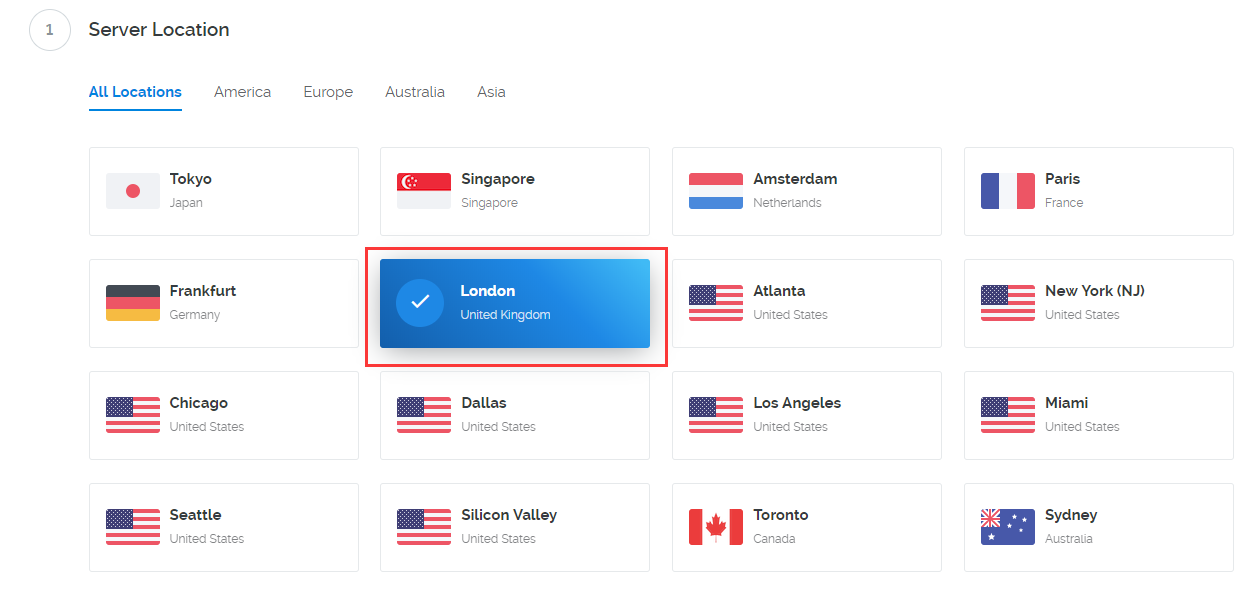
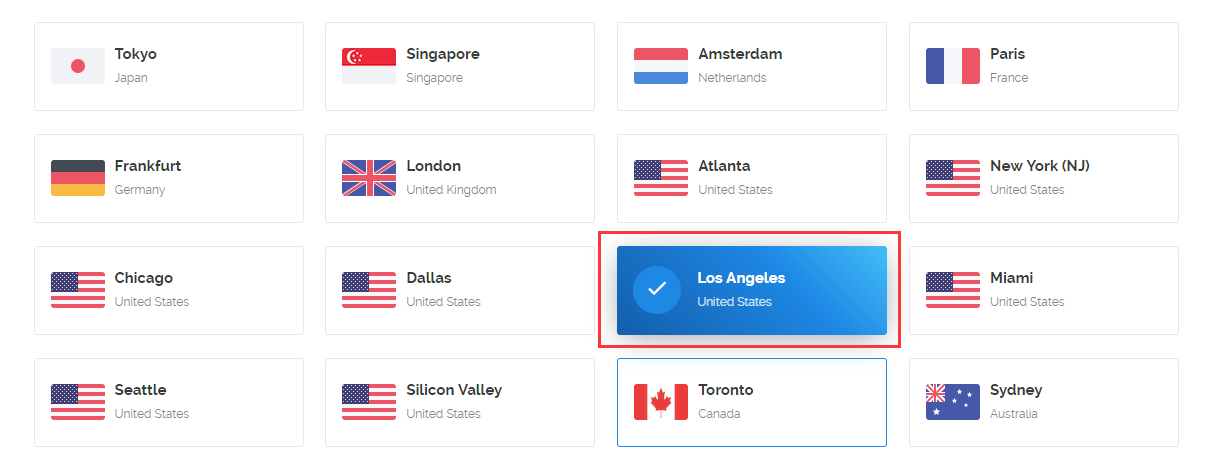
修改图片

diff --git a/super_easy_shadowsocks_tutorial.md b/super_easy_shadowsocks_tutorial.md
@@ -1,6 +1,6 @@
 # 前言
 
-  由于秋水逸冰大佬的退出，所以旧教程使用的一键安装shadowsocks脚本可能在未来的某一天也不管用了。出于这个原因，我又写了一边文章用来给大家作为备用教程，这篇文章使用的是[Google Jigsaw](https://jigsaw.google.com/)团队制作的同样也是shadowsocks的一键脚本，由于是Google制作，所以迫于某些压力退出的可能性不大，个人认为可以作为长期的备用教程。
+  由于秋水逸冰大佬的退出，所以旧教程使用的一键安装shadowsocks脚本可能在未来的某一天也不管用了。出于这个原因，我又写了一篇文章用来给大家作为备用教程，这篇文章使用的是[Google Jigsaw](https://jigsaw.google.com/)团队制作的同样也是shadowsocks的一键脚本，由于是Google制作，所以迫于某些压力退出的可能性不大，个人认为可以作为长期的备用教程。
 
 # 开始
 
@@ -22,7 +22,7 @@ Vultr推荐链接：https://www.vultr.com/?ref=7370522
 
 ![](./images/2.png)
 
-第二步：在打开的页面选择伦敦London服务器（由于日本服务器滥用导致很多IP被封了，建议电信用户可以选择伦敦），如果喜欢其他服务器也可以选择，后续操作是一样一样的
+第二步：在打开的页面选择洛杉矶Los Angeles服务器（由于日本服务器滥用导致很多IP被封了，建议电信用户可以选择洛杉矶或者伦敦），如果喜欢其他服务器也可以选择，后续操作是一样一样的
 
 ![](./images/super_easy_shadowsocks_tutorial/1.png)
 
